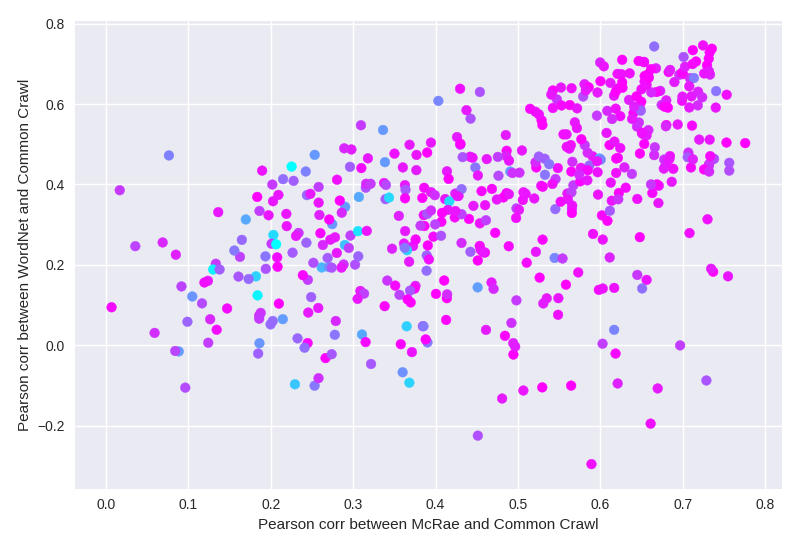
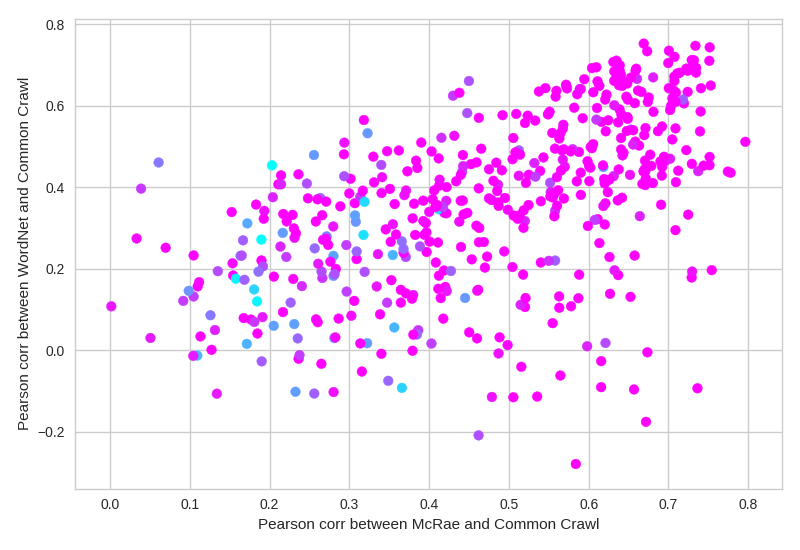
cc results

diff --git a/subgraphs/feature_fit.py b/subgraphs/feature_fit.py
@@ -32,7 +32,7 @@ import random
 # resulting feature_fit metric represents how well these representations encode
 # the relevant features. Each axis of the resulting graphs also involves the
 # pivot source.
-PIVOT = "wikigiga"
+PIVOT = "cc"
 if PIVOT == "mcrae":
     INPUT = "./all/mcrae_vectors.txt"
 elif PIVOT == "cslb":
